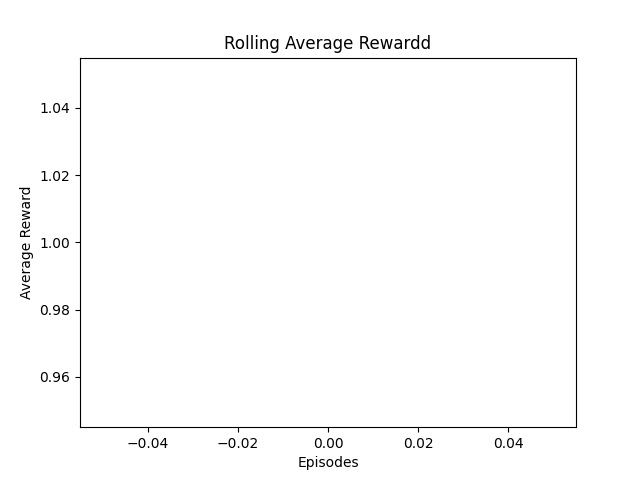
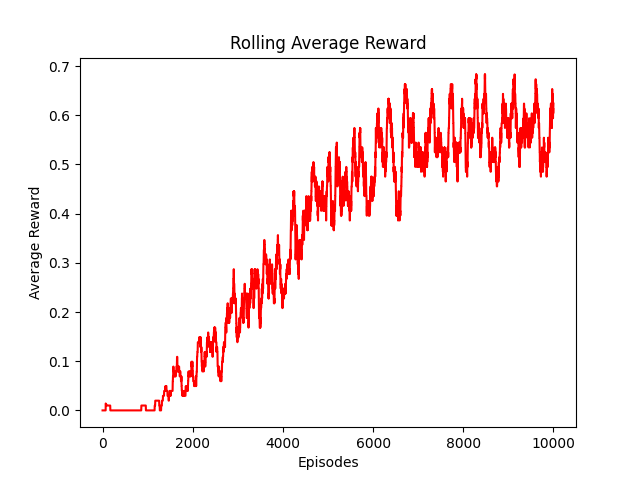
Fixed bugs with the graph

diff --git a/TemporalDifferencing/Q_learning/Q_learning.py b/TemporalDifferencing/Q_learning/Q_learning.py
@@ -74,13 +74,14 @@ def run(episodes, render=False, training=True):
         
     for i in range(episodes):
         average_rewards[i] = np.mean(rewards[max(0, i-100):i+1])
-    plt.plot(average_rewards, c='red')
-    plt.title("Rolling Average Rewardd")
-    plt.xlabel("Episodes")
-    plt.ylabel("Average Reward")
-    plt.savefig('TemporalDifferencing/Q_learning/frozen_lake8x8.png')
 
     if training:
+        plt.plot(average_rewards, c='red')
+        plt.title("Rolling Average Reward")
+        plt.xlabel("Episodes")
+        plt.ylabel("Average Reward")
+        plt.savefig('TemporalDifferencing/Q_learning/frozen_lake8x8.png')
+
         f = open('TemporalDifferencing/Q_learning/frozen_lake8x8.pkl', 'wb')
         pickle.dump(Q, f)
         f.close()
